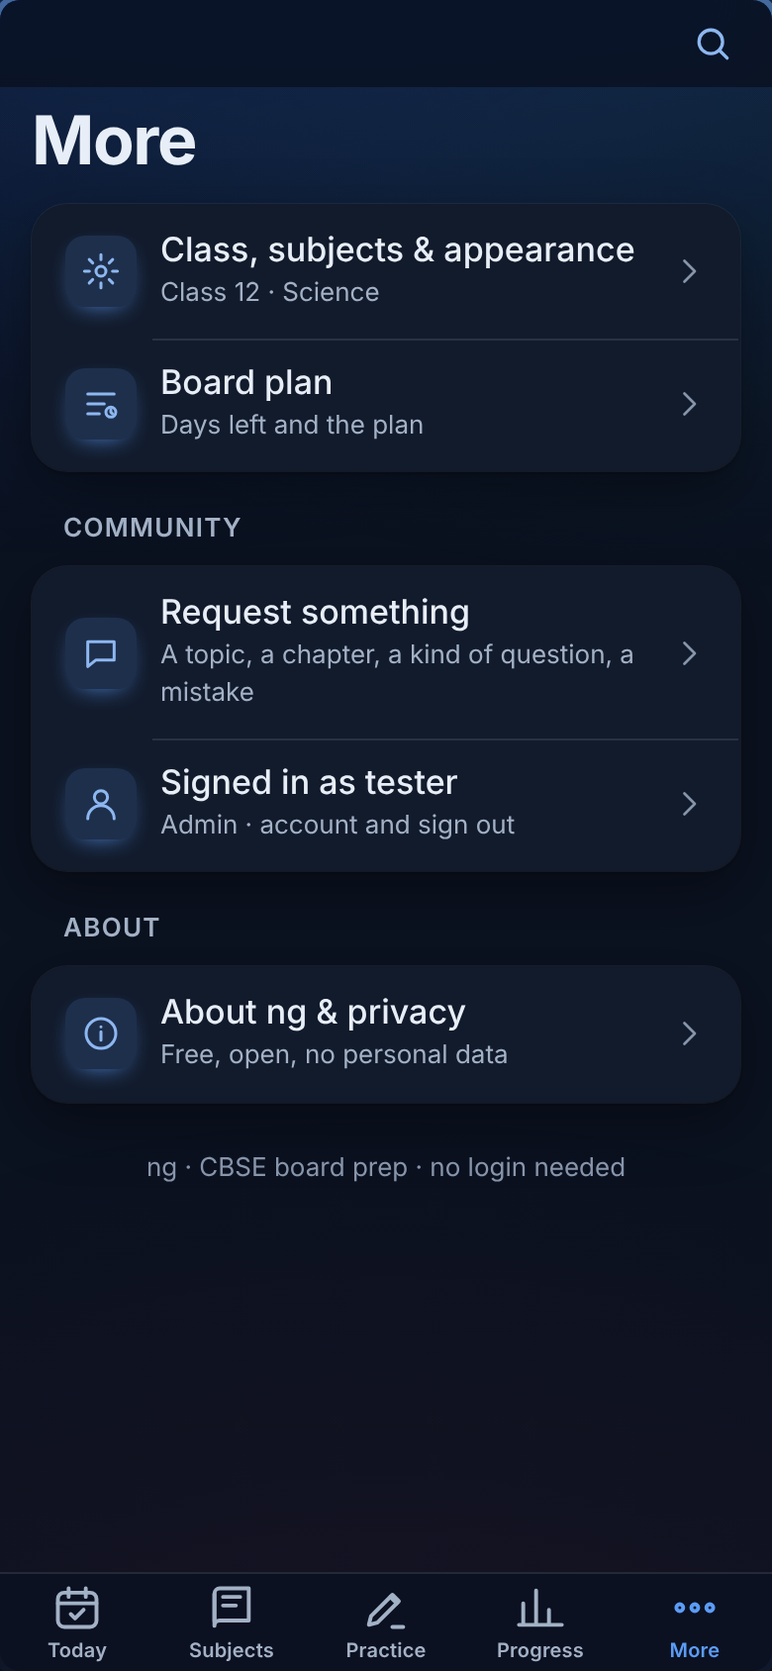
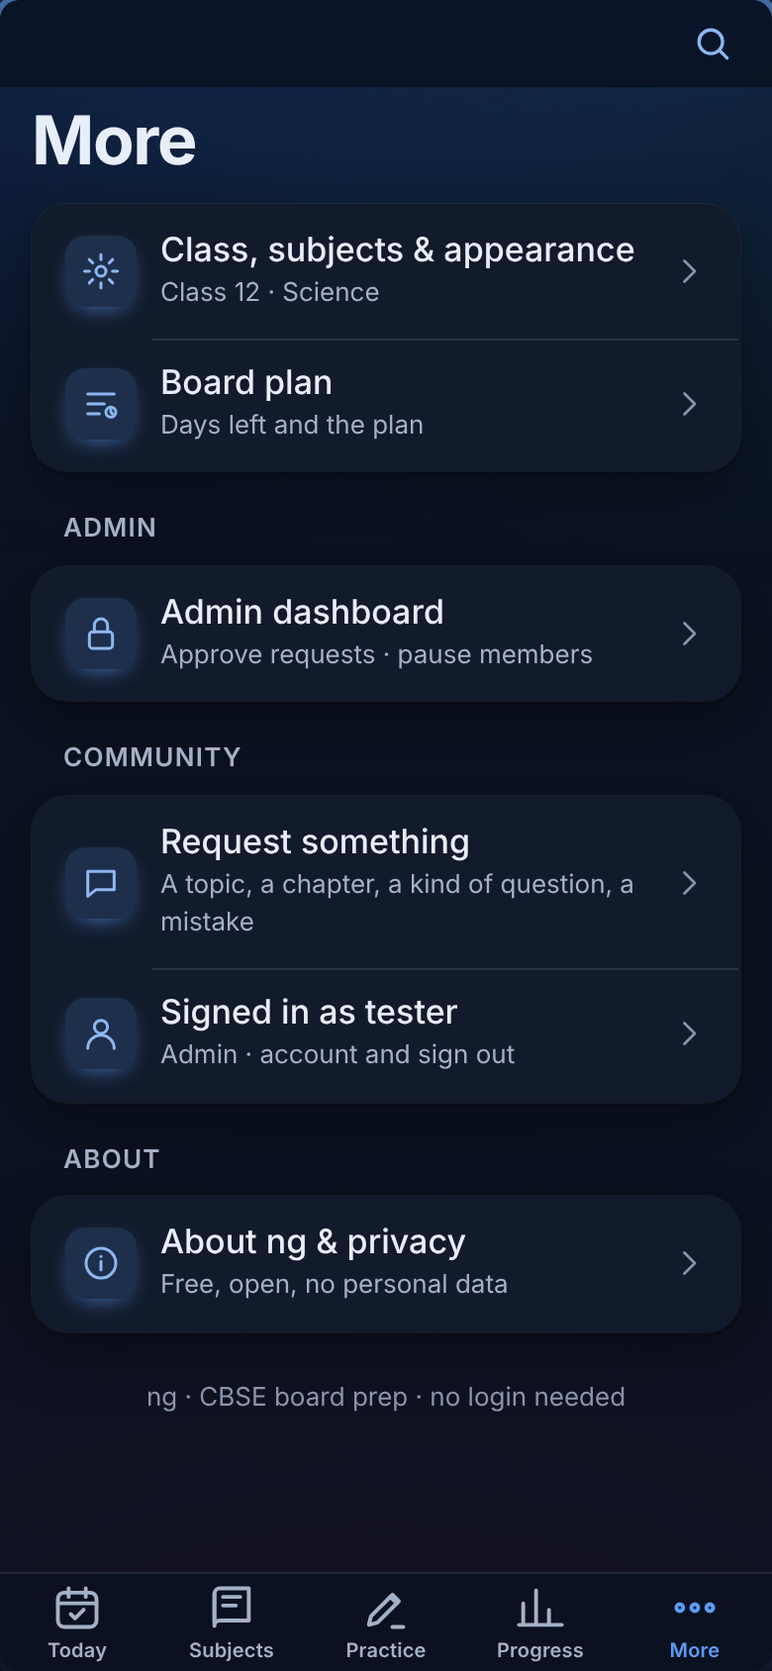
site: admin dashboard; request screen says Access awaited
- #/admin (admins only, linked from More): paste a request code → Check → Approve, always as a student; pause / restore students; a fresh code for an existing student sets a new passphrase. Saves data/users.json through the GitHub contents API with a fine-grained token kept on the admin's device (one-time setup shown in the dashboard). Codes with unexpected fields are rejected; admins can't be changed from here.
- Request access ends on 'Access awaited' with one Send on WhatsApp button (prefilled message, no phone number stored) and Copy instead; sign-in shows a reminder until the member signs in.
- CLAUDE.md: dashboard, and the product principle — keep it basic; reading, recall and formulas must be world-class.

Claude-Session: https://claude.ai/code/session_013Q11xHq7DfHKAzq8nAAmiu

diff --git a/app/views/admin.js b/app/views/admin.js
@@ -1,0 +1,121 @@
+// Admin dashboard (#/admin): approve requests (always as students), pause / restore members.
+import { html, raw, icon, esc, toast, haptic, emptyState } from '../ui.js';
+import { session, loadUsers, NICK_RE } from '../auth.js';
+import { token, updateUsers, testKey } from '../github.js';
+
+const ALLOWED = new Set(['v', 'nickname', 'salt', 'hash', 'class', 'stream', 'subjects', 'requested']);
+const today = () => new Date().toISOString().slice(0, 10);
+
+function parseCode(text) {
+  const raw = (text.match(/[A-Za-z0-9+/=]{40,}/) || [])[0];
+  if (!raw) throw new Error('That doesn’t look like a request code. Paste the whole code from the message.');
+  let r;
+  try { r = JSON.parse(decodeURIComponent(escape(atob(raw)))); } catch { throw new Error('The code is damaged. Ask them to copy it again.'); }
+  const extra = Object.keys(r).filter((k) => !ALLOWED.has(k));
+  if (extra.length) throw new Error('This code has unexpected fields, so it was not accepted.');
+  if (!NICK_RE.test(r.nickname || '')) throw new Error('The nickname in this code is not valid.');
+  if (!/^[A-Za-z0-9+/=]{16,}$/.test(r.salt || '') || !/^[A-Za-z0-9+/=]{32,}$/.test(r.hash || '')) throw new Error('The code is incomplete. Ask them to create it again.');
+  if (!['9', '10', '11', '12'].includes(String(r.class))) throw new Error('Unknown class in this code.');
+  return r;
+}
+
+export async function admin() {
+  const s = session();
+  if (s?.role !== 'admin') return { title: 'Not found', tab: 'more', html: emptyState({ icon: 'lock', title: 'Admins only' }) };
+  let users = [];
+  try { users = await loadUsers({ fresh: true }); } catch { /* offline */ }
+  const hasKey = !!token.get();
+  const row = (u) => `<div class="list__item has-leading" data-nick="${esc(u.nickname)}">
+      <span class="list__leading" style="--unit:${u.status === 'approved' ? 'var(--accent)' : '#8795AB'}">${esc(u.nickname.slice(0, 2).toUpperCase())}</span>
+      <span class="list__body"><span class="list__title">${esc(u.nickname)}${u.role === 'admin' ? ' <span class="badge badge--new">admin</span>' : ''}${u.status !== 'approved' ? ' <span class="badge badge--soon">paused</span>' : ''}</span><span class="list__sub">Class ${esc(u.class)} · since ${esc(u.approved_on)}</span></span>
+      ${u.role !== 'admin' ? `<span class="list__trailing"><button class="btn btn--sm ${u.status === 'approved' ? 'btn--plain' : 'btn--secondary'}" type="button" data-act="${u.status === 'approved' ? 'pause' : 'restore'}">${u.status === 'approved' ? 'Pause' : 'Restore'}</button></span>` : ''}
+    </div>`;
+  return {
+    title: 'Admin', tab: 'more', back: '#/more',
+    html: html`<h1 class="t-title" style="margin:var(--s-4) 0">Admin</h1>
+      ${!hasKey ? raw(`<div class="card mb-4" id="key-card">
+        <div class="t-headline">One-time setup: connect the site</div>
+        <p class="t-2 t-subhead mt-2">Approvals are saved into the site itself, so this phone needs a key that can edit the site's member list. You do this once.</p>
+        <ol class="t-subhead mt-2" style="padding-left:1.2em;line-height:1.6">
+          <li>Open <strong>github.com → Settings → Developer settings → Personal access tokens → Fine-grained tokens → Generate new token</strong>.</li>
+          <li>Name it <em>ng admin</em>, expiry 1 year. Resource owner <strong>thinkneer</strong>, repository access <strong>Only select repositories → ng</strong>.</li>
+          <li>Permissions → Repository → <strong>Contents: Read and write</strong>. Nothing else. Generate and copy it.</li>
+        </ol>
+        <label for="key" class="mt-4">Paste the key</label>
+        <input id="key" autocomplete="off" autocapitalize="none" spellcheck="false" placeholder="github_pat_…">
+        <button class="btn btn--block mt-4" type="button" id="key-save">Connect</button>
+        <p class="t-footnote t-3 mt-2">The key stays on this device only and can do nothing except edit files in this one site.</p>
+      </div>`) : ''}
+      <div class="card">
+        <div class="t-headline">Approve a request</div>
+        <p class="t-2 t-subhead mt-1">Paste the code a student sent you on WhatsApp. They are always added as a standard student.</p>
+        <textarea id="code" rows="4" class="mt-4 t-mono" style="font-size:.85rem" placeholder="Paste the request code" aria-label="Request code"></textarea>
+        <div id="preview" class="mt-4" hidden></div>
+        <p class="auth__err" id="a-err" role="alert" hidden></p>
+        <button class="btn btn--block mt-4" type="button" id="check" ${raw(hasKey ? '' : 'disabled')}>Check code</button>
+      </div>
+      <div class="list__header" style="padding-left:0">Members <span class="count">${users.length}</span></div>
+      <div class="list" id="members">${raw(users.map(row).join('') || '<div class="list__item t-2">No members yet</div>')}</div>
+      <p class="t-footnote t-3 mt-4">Changes go live in about a minute (the site rebuilds itself). Paused members are signed out the next time they open the app.</p>
+      ${hasKey ? raw(`<button class="btn btn--ghost btn--sm mt-4" type="button" id="key-forget">Disconnect this device</button>`) : ''}`,
+    mount(el) {
+      const err = el.querySelector('#a-err'), preview = el.querySelector('#preview'), check = el.querySelector('#check'), codeEl = el.querySelector('#code');
+      const fail = (m) => { err.textContent = m; err.hidden = false; haptic('medium'); };
+      let pending = null;
+
+      el.querySelector('#key-save')?.addEventListener('click', async (e) => {
+        const v = el.querySelector('#key').value.trim(); if (!v) return;
+        e.target.disabled = true; e.target.textContent = 'Checking…';
+        token.set(v);
+        try { await testKey(); toast('Connected'); location.reload(); }
+        catch (ex) { token.clear(); toast(ex.message, { duration: 6000 }); e.target.disabled = false; e.target.textContent = 'Connect'; }
+      });
+      el.querySelector('#key-forget')?.addEventListener('click', () => { token.clear(); toast('This device is disconnected'); location.reload(); });
+
+      codeEl.addEventListener('input', () => { pending = null; preview.hidden = true; err.hidden = true; check.textContent = 'Check code'; });
+      check.addEventListener('click', async () => {
+        err.hidden = true;
+        if (!pending) {
+          try {
+            const r = parseCode(codeEl.value);
+            const all = await loadUsers({ fresh: true });
+            const existing = all.find((u) => u.nickname.toLowerCase() === r.nickname.toLowerCase());
+            if (existing?.role === 'admin') return fail('That nickname belongs to an admin.');
+            pending = r; pending.replace = !!existing;
+            preview.innerHTML = `<div class="row"><span class="list__leading" style="--unit:var(--accent)">${esc(r.nickname.slice(0, 2).toUpperCase())}</span><div><div class="t-headline">${esc(r.nickname)}</div><div class="t-2 t-footnote">Class ${esc(r.class)}${r.stream && r.stream !== 'general' ? ' ' + esc(r.stream) : ''} · requested ${esc(r.requested || '')} · student</div>${r.replace ? '<div class="t-footnote mt-1" style="color:var(--warning)">Already a member: approving sets this new passphrase.</div>' : ''}</div></div>`;
+            preview.hidden = false; check.textContent = r.replace ? `Set new passphrase for ${r.nickname}` : `Approve ${r.nickname}`;
+          } catch (ex) { fail(ex.message); }
+          return;
+        }
+        check.disabled = true; check.textContent = 'Saving…';
+        try {
+          const r = pending;
+          await updateUsers((data) => {
+            data.users = data.users.filter((u) => u.nickname.toLowerCase() !== r.nickname.toLowerCase() || u.role === 'admin');
+            if (data.users.some((u) => u.nickname.toLowerCase() === r.nickname.toLowerCase())) throw new Error('That nickname belongs to an admin.');
+            data.users.push({ nickname: r.nickname, salt: r.salt, hash: r.hash, class: String(r.class), stream: r.stream || 'science', subjects: [], status: 'approved', approved_on: today(), role: 'student' });
+            return r.replace ? `users: new passphrase for ${r.nickname}` : `users: approve ${r.nickname}`;
+          });
+          haptic('success'); toast(`${r.nickname} approved. They can sign in in about a minute.`, { duration: 5000 });
+          setTimeout(() => location.reload(), 900);
+        } catch (ex) { fail(ex.message); check.disabled = false; check.textContent = `Approve ${pending.nickname}`; }
+      });
+
+      el.querySelector('#members').addEventListener('click', async (e) => {
+        const b = e.target.closest('[data-act]'); if (!b) return;
+        if (!token.get()) { toast('Connect this device first (setup above)'); return; }
+        const nick = b.closest('[data-nick]').dataset.nick, pause = b.dataset.act === 'pause';
+        b.disabled = true; b.textContent = 'Saving…';
+        try {
+          await updateUsers((data) => {
+            const u = data.users.find((x) => x.nickname === nick);
+            if (!u || u.role === 'admin') throw new Error('Admins can’t be paused here.');
+            u.status = pause ? 'suspended' : 'approved';
+            return `users: ${pause ? 'suspend' : 'restore'} ${nick}`;
+          });
+          toast(pause ? `${nick} paused` : `${nick} restored`); setTimeout(() => location.reload(), 700);
+        } catch (ex) { toast(ex.message, { duration: 6000 }); b.disabled = false; b.textContent = pause ? 'Pause' : 'Restore'; }
+      });
+    },
+  };
+}

diff --git a/app/views/signin.js b/app/views/signin.js
@@ -3,6 +3,7 @@ import { html, raw, icon, esc, toast, haptic } from '../ui.js';
 import { signIn, buildRequest, requestCode, nicknameTaken, NICK_RE } from '../auth.js';
 import { randomQuote } from '../quotes.js';
 import { data } from '../data.js';
+import { store } from '../store.js';
 
 
 function shell(inner) {
@@ -27,6 +28,7 @@ export async function signin(route) {
         <label for="pass" class="mt-4">Passphrase</label>
         <div class="auth__pass"><input id="pass" name="pass" type="password" autocomplete="current-password" required><button class="icon-btn" type="button" id="peek" aria-label="Show passphrase">${raw(icon('eye'))}</button></div>
         <p class="auth__err" id="err" role="alert" hidden></p>
+        ${raw(store.get('pending', null) ? `<div class="notice mt-4">${icon('clock')}<div><strong>Access awaited for ${esc(store.get('pending').nickname)}.</strong> Not approved yet? <a href="https://wa.me/?text=${encodeURIComponent(store.get('pending').msg)}" target="_blank" rel="noopener">Send it again on WhatsApp</a>.</div></div>` : '')}
         <button class="btn btn--block mt-4" type="submit" id="go">Sign in</button>
         <div class="auth__foot">No account yet? <a href="#/request">Request access</a></div>
       </form>
@@ -42,6 +44,7 @@ export async function signin(route) {
         go.disabled = true; go.textContent = 'Checking…'; err.hidden = true;
         try {
           const s = await signIn(nick, pass);
+          store.set('pending', undefined);
           haptic('success'); toast(`Signed in as ${s.nickname}`);
           location.hash = next === '#/signin' ? '#/today' : next;
         } catch (ex) {
@@ -76,13 +79,13 @@ export async function request() {
         <button class="btn btn--block mt-4" type="submit" id="r-go">Create request</button>
         <div class="auth__foot"><a href="#/signin">Back to sign in</a></div>
       </form>
-      <div class="card auth__card" id="r-done" hidden>
-        <h1 class="t-title2">Almost there</h1>
-        <p class="t-2 t-subhead">Send this code to the admin (your parent or teacher who runs the site). Your passphrase is not in it, only a scrambled check of it.</p>
-        <button class="btn btn--block mt-4" type="button" id="r-share">${raw(icon('share'))} Send to admin</button>
-        <button class="btn btn--plain btn--block mt-2" type="button" id="r-copy">${raw(icon('copy'))} Copy code</button>
-        <textarea id="r-code" rows="4" class="mt-2 t-mono" readonly style="font-size:.8rem" aria-label="Request code"></textarea>
-        <p class="t-footnote t-3 mt-2">Once the admin approves you, come back here and sign in with the same nickname and passphrase.</p>
+      <div class="card auth__card center" id="r-done" hidden>
+        <div class="auth__wait">${raw(icon('clock'))}</div>
+        <h1 class="t-title2">Access awaited</h1>
+        <p class="t-2 t-subhead mt-2">Send your request to the admin on WhatsApp. Once approved, sign in with the same nickname and passphrase.</p>
+        <a class="btn btn--block mt-6 btn--wa" id="r-wa" target="_blank" rel="noopener">${raw(icon('message'))} Send on WhatsApp</a>
+        <button class="btn btn--ghost btn--sm mt-2" type="button" id="r-copy">Copy instead</button>
+        <textarea id="r-code" class="sr-only" readonly aria-hidden="true" tabindex="-1"></textarea>
         <div class="auth__foot"><a href="#/signin">Back to sign in</a></div>
       </div>
       <p class="auth__small">Use a nickname. No real names, emails, phone numbers or schools.</p>`),
@@ -102,15 +105,13 @@ export async function request() {
         const req = await buildRequest({ nickname, pass, cls, stream, subjects });
         const code = requestCode(req);
         el.querySelector('#r-code').value = code;
+        const msg = `Hi! Please approve my ng access.\nNickname: ${nickname}\nCode: ${code}`;
+        el.querySelector('#r-wa').href = `https://wa.me/?text=${encodeURIComponent(msg)}`;
+        el.querySelector('#r-wa').dataset.msg = msg;
+        store.set('pending', { nickname, msg, at: Date.now() });
         f.hidden = true; el.querySelector('#r-done').hidden = false; haptic('success'); el.querySelector('.auth').scrollTo({ top: 0, behavior: 'smooth' });
       });
-      el.querySelector('#r-share').addEventListener('click', async () => {
-        const code = el.querySelector('#r-code').value;
-        const text = `ng access request\n${code}`;
-        if (navigator.share) { try { await navigator.share({ title: 'ng access request', text }); return; } catch (e) { if (e?.name === 'AbortError') return; } }
-        try { await navigator.clipboard.writeText(text); toast('Code copied \u2014 paste it in a message to the admin'); } catch { el.querySelector('#r-code').select(); toast('Select the code and copy it'); }
-      });
-      el.querySelector('#r-copy').addEventListener('click', async () => { const t = el.querySelector('#r-code'); try { await navigator.clipboard.writeText(t.value); toast('Code copied'); } catch { t.select(); toast('Select the code and copy it'); } });
+      el.querySelector('#r-copy').addEventListener('click', async () => { const m = el.querySelector('#r-wa').dataset.msg; try { await navigator.clipboard.writeText(m); toast('Copied \u2014 paste it to the admin'); } catch { toast('Copy not allowed here'); } });
     },
   };
 }

diff --git a/app/github.js b/app/github.js
@@ -1,0 +1,39 @@
+// Admin-only: edit data/users.json in the repo through the GitHub API.
+// The key (a fine-grained token limited to this repository's contents) is kept only on the admin's device.
+const OWNER = 'thinkneer', REPO = 'ng', PATH = 'data/users.json', BRANCH = 'main';
+const KEY = 'ng.admin.token';
+const API = `https://api.github.com/repos/${OWNER}/${REPO}/contents/${PATH}`;
+
+export const token = {
+  get: () => { try { return localStorage.getItem(KEY) || ''; } catch { return ''; } },
+  set: (t) => { try { localStorage.setItem(KEY, t.trim()); } catch { /* ignore */ } },
+  clear: () => { try { localStorage.removeItem(KEY); } catch { /* ignore */ } },
+};
+
+const headers = () => ({ Authorization: `Bearer ${token.get()}`, Accept: 'application/vnd.github+json', 'X-GitHub-Api-Version': '2022-11-28' });
+const decode = (b64) => new TextDecoder().decode(Uint8Array.from(atob(b64.replace(/\n/g, '')), (c) => c.charCodeAt(0)));
+const encode = (s) => { const bytes = new TextEncoder().encode(s); let bin = ''; for (const b of bytes) bin += String.fromCharCode(b); return btoa(bin); };
+
+async function read() {
+  const r = await fetch(`${API}?ref=${BRANCH}&t=${Date.now()}`, { headers: headers(), cache: 'no-store' });
+  if (r.status === 401 || r.status === 403) throw new Error('The GitHub key was refused. Check it has Contents: Read and write on thinkneer/ng, or paste a new one.');
+  if (!r.ok) throw new Error(`GitHub said ${r.status} while reading the member list.`);
+  const j = await r.json();
+  return { sha: j.sha, data: JSON.parse(decode(j.content)) };
+}
+
+/** Read users.json, apply change(data) → returns commit message, write it back. Retries once on a conflict. */
+export async function updateUsers(change) {
+  for (let attempt = 0; attempt < 2; attempt++) {
+    const { sha, data } = await read();
+    const message = change(data);
+    const body = JSON.stringify({ message: `${message}\n\nvia admin dashboard`, content: encode(JSON.stringify(data, null, 2) + '\n'), sha, branch: BRANCH });
+    const r = await fetch(API, { method: 'PUT', headers: { ...headers(), 'Content-Type': 'application/json' }, body });
+    if (r.ok) return data;
+    if (r.status === 409 && attempt === 0) continue; // someone else changed it; read again
+    if (r.status === 401 || r.status === 403) throw new Error('The GitHub key can’t write. It needs Contents: Read and write on thinkneer/ng.');
+    throw new Error(`GitHub said ${r.status} while saving.`);
+  }
+  throw new Error('The member list changed while saving. Try again.');
+}
+export async function testKey() { await read(); return true; }

diff --git a/sw.js b/sw.js
@@ -3,7 +3,7 @@
    - Content (content/**, data/**): stale-while-revalidate so notes, plan and practice work offline once opened.
    - Vendored libraries (vendor/**: KaTeX, marked, DOMPurify, fonts): cache-first, version-pinned.
    Updates: the new worker waits; the page shows "New version available" and posts SKIP_WAITING. */
-const CACHE_VERSION = 'dev7';
+const CACHE_VERSION = 'dev8';
 const SHELL = `ng-shell-${CACHE_VERSION}`;
 const CONTENT = 'ng-content-v1';
 const LIBS = 'ng-libs-v1';
@@ -14,7 +14,7 @@ const SHELL_FILES = [
   './styles/tokens.css', './styles/base.css', './styles/layout.css', './styles/components.css', './styles/reader.css', './styles/print.css',
   './app/main.js', './app/router.js', './app/store.js', './app/data.js', './app/ui.js', './app/icons.js', './app/theme.js', './app/pwa.js', './app/markdown.js',
   './app/views/index.js', './app/views/today.js', './app/views/classes.js', './app/views/subject.js', './app/views/chapter.js',
-  './app/views/practice.js', './app/views/progress.js', './app/views/plan.js', './app/views/more.js', './app/views/reader.js', './app/views/recall.js', './app/views/formulas.js', './app/recall.js', './app/highlights.js', './app/auth.js', './app/quotes.js', './app/views/signin.js',
+  './app/views/practice.js', './app/views/progress.js', './app/views/plan.js', './app/views/more.js', './app/views/reader.js', './app/views/recall.js', './app/views/formulas.js', './app/recall.js', './app/highlights.js', './app/auth.js', './app/quotes.js', './app/views/signin.js', './app/views/admin.js', './app/github.js',
   './assets/icons/icon-192.png', './assets/icons/icon-64.png', './assets/icons/icon-512.png', './assets/icons/favicon.svg',
   './data/classes.json', './data/index.json',
   './vendor/marked.esm.js', './vendor/purify.es.mjs', './vendor/katex/katex.mjs', './vendor/katex/katex.min.css', './vendor/katex/contrib/auto-render.mjs', './vendor/katex/contrib/mhchem.mjs',

diff --git a/app/views/more.js b/app/views/more.js
@@ -27,6 +27,7 @@ async function hub() {
         ${listItem({ href: '#/plan', title: 'Board plan', sub: 'Days left and the plan', leading: icon('plan'), leadingStyle: 'background:var(--accent-soft);color:var(--accent-text)' })}
         ${pwa.installable ? listItem({ href: '#/more/install', title: 'Install app', sub: 'Full-screen, works offline', leading: icon('install'), leadingStyle: 'background:var(--accent-soft);color:var(--accent-text)' }) : ''}
       </div>
+      ${session()?.role === 'admin' ? html`<div class="list__header">Admin</div><div class="list">${listItem({ href: '#/admin', title: 'Admin dashboard', sub: 'Approve requests · pause members', leading: icon('lock'), leadingStyle: 'background:var(--accent-soft);color:var(--accent-text)' })}</div>` : ''}
       <div class="list__header">Community</div>
       <div class="list">
         ${listItem({ href: '#/more/request', title: 'Request something', sub: 'A topic, a chapter, a kind of question, a mistake', leading: icon('message'), leadingStyle: 'background:var(--accent-soft);color:var(--accent-text)' })}

diff --git a/app/views/index.js b/app/views/index.js
@@ -9,6 +9,7 @@ import { more } from './more.js';
 import { emptyState } from '../ui.js';
 import { recallDue } from './recall.js';
 import { signin, request as requestAccess } from './signin.js';
+import { admin } from './admin.js';
 
 export const views = {
   today,
@@ -28,7 +29,7 @@ export const views = {
   request: requestAccess,
   access: requestAccess,
   login: signin,
-  admin: (r) => more({ ...r, sub: 'access' }),
+  admin,
   'not-found': async () => ({
     title: 'Not found', tab: 'today',
     html: emptyState({ icon: 'alert', title: 'That page does not exist', text: 'Check the link, or start from Today.', action: '<a class="btn btn--secondary" href="#/today">Go to Today</a>' }),

diff --git a/styles/components.css b/styles/components.css
@@ -393,3 +393,7 @@ mark.hl--flash { animation: hl-flash 1.4s ease-out; }
 .pin-demo--off { background: var(--text-2); }
 .large-title .chip { flex: 0 0 auto; }
 a.card.continue, button.card.continue { display: flex; }
+
+.auth__wait { width: 4rem; height: 4rem; margin: 0 auto var(--s-3); border-radius: 50%; display: grid; place-items: center; background: var(--accent-soft); color: var(--accent-text); }
+.auth__wait svg { width: 2rem; height: 2rem; }
+.btn--wa { background: linear-gradient(135deg, #1FAF5A, #25D366); box-shadow: 0 8px 22px -8px rgba(37, 211, 102, 0.6); }

diff --git a/CLAUDE.md b/CLAUDE.md
@@ -79,7 +79,9 @@ Before planning anything date-based, recheck board dates on cbse.gov.in and upda
 - Never approve users, suspend users or merge user data without the admin's explicit confirmation in the chat.
 - **No GitHub for students** (admin decision): the site is strictly an education app for children. Nothing a student sees links to GitHub or asks for a GitHub account. Access requests and content requests are codes / text the student sends to the admin by message ("Send to admin" = the phone's share sheet, or Copy).
 - Sign-up asks only nickname + passphrase (class picker appears only when more than one class is live). Every member starts with **all subjects**; students add/remove subjects themselves on the Subjects shelf (✓ / + on each cover) or the subject page; that choice drives Today, Practice, Recall and the plan. `subjects: []` means all.
-- "approve pending users": the admin pastes request codes (base64 of `{v, nickname, salt, hash, class, stream, subjects, requested}` — decode with `base64 -d`). Show a table → wait for OK → add each to `data/users.json` as `{nickname, salt, hash, class, stream, subjects, status: "approved", approved_on: <today>, role: "student"}` (role "admin" only when the admin says so), run build-index, commit "users: approve <nicknames>". Never accept a request that contains anything other than those fields; never add a passphrase in clear.
+- **Admin dashboard** (`#/admin`, More → Admin dashboard, admins only): the admin pastes a request code from WhatsApp → Check → Approve. Members are always added as `role: "student"`; the dashboard can also pause / restore students and set a new passphrase from a fresh code. It saves by editing `data/users.json` through the GitHub API with a fine-grained token (Contents: read & write on thinkneer/ng only) stored on the admin's device. A student's request screen just says **Access awaited** with a "Send on WhatsApp" button.
+- **Product principle (admin, 14 Nov 2026): keep everything as basic as possible. Only reading notes, recall and remembering formulas must be world-class.** Spend effort there; don't add features elsewhere unless asked.
+- "approve pending users" (in a chat, if the admin prefers): the admin pastes request codes (base64 of `{v, nickname, salt, hash, class, stream, subjects, requested}` — decode with `base64 -d`). Show a table → wait for OK → add each to `data/users.json` as `{nickname, salt, hash, class, stream, subjects, status: "approved", approved_on: <today>, role: "student"}` (role "admin" only when the admin says so), run build-index, commit "users: approve <nicknames>". Never accept a request that contains anything other than those fields; never add a passphrase in clear.
 - "suspend <nickname>": set `status: "suspended"` (they are signed out on next load). To reset a passphrase the member sends a new request code; replace salt + hash.
 - **Highlights and notes are personal for now** (saved per nickname on the device, `progress.highlights`). Sharing them with all members needs a database; not built yet, by the admin's choice.
 - "check requests": the admin pastes the requests students sent (and any old `request`-labelled issues) → group by subject and chapter → say what each takes and which matter before the nearest paper → wait for a decision.
